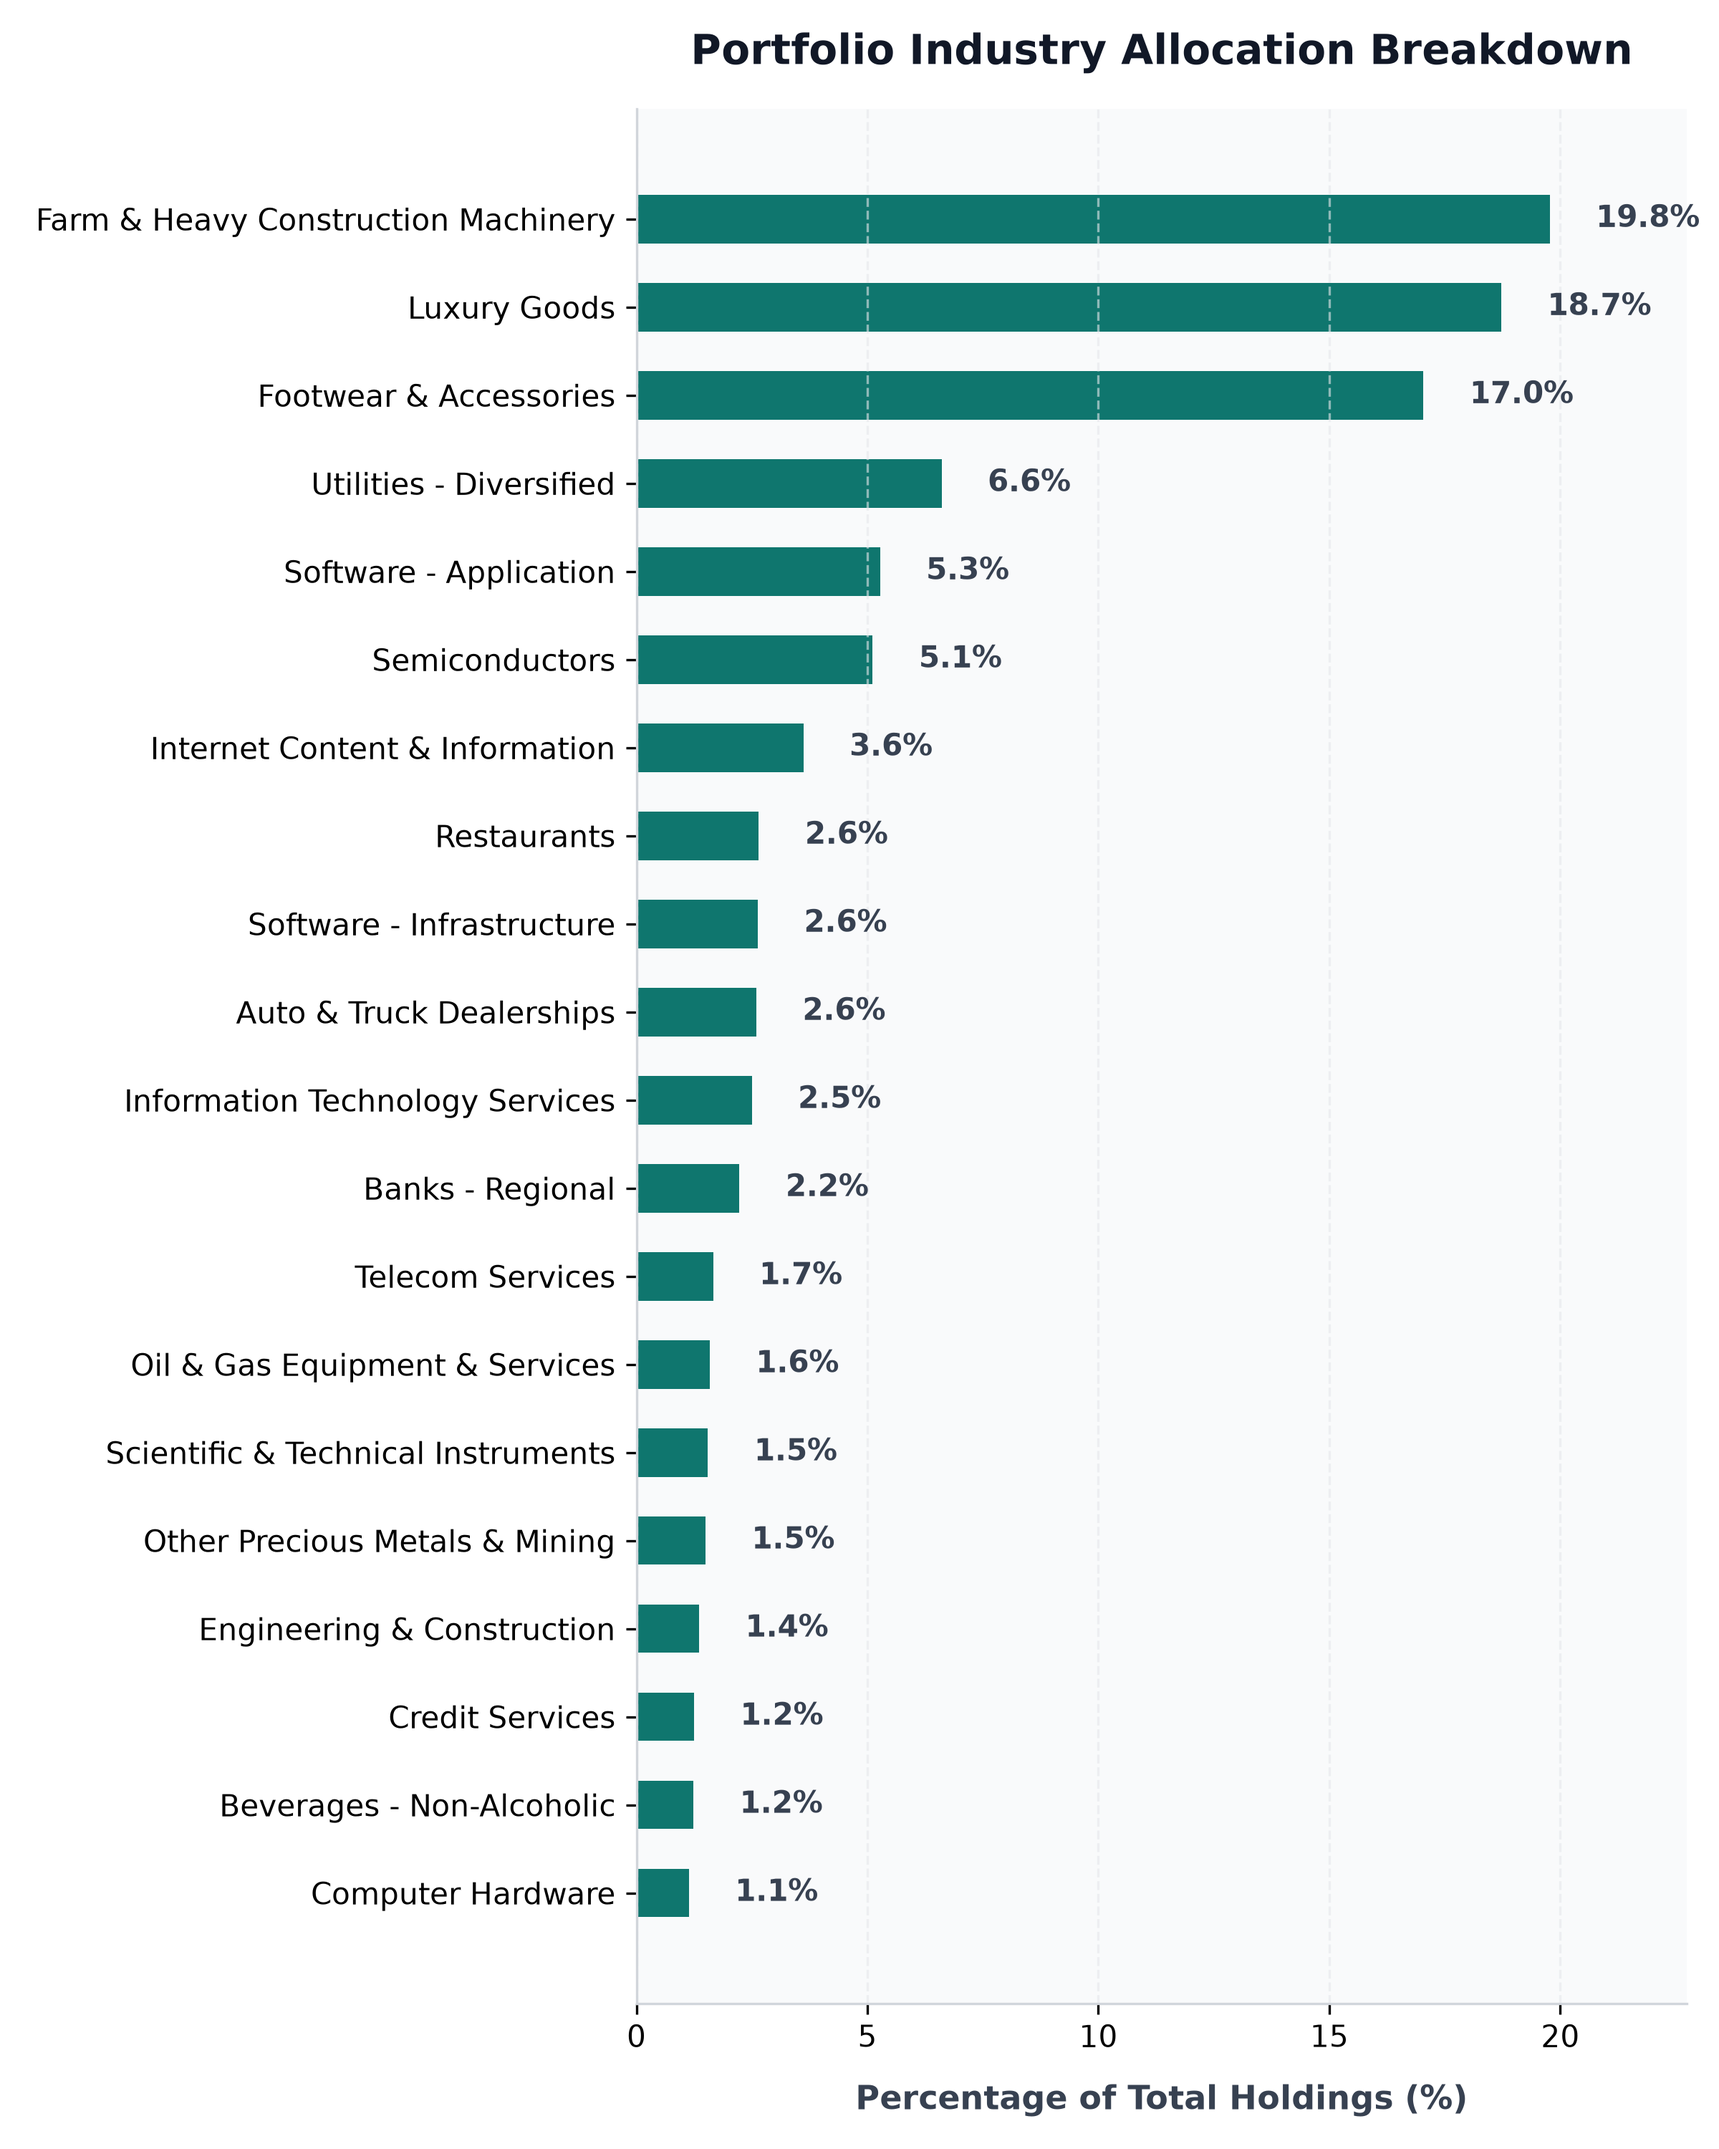
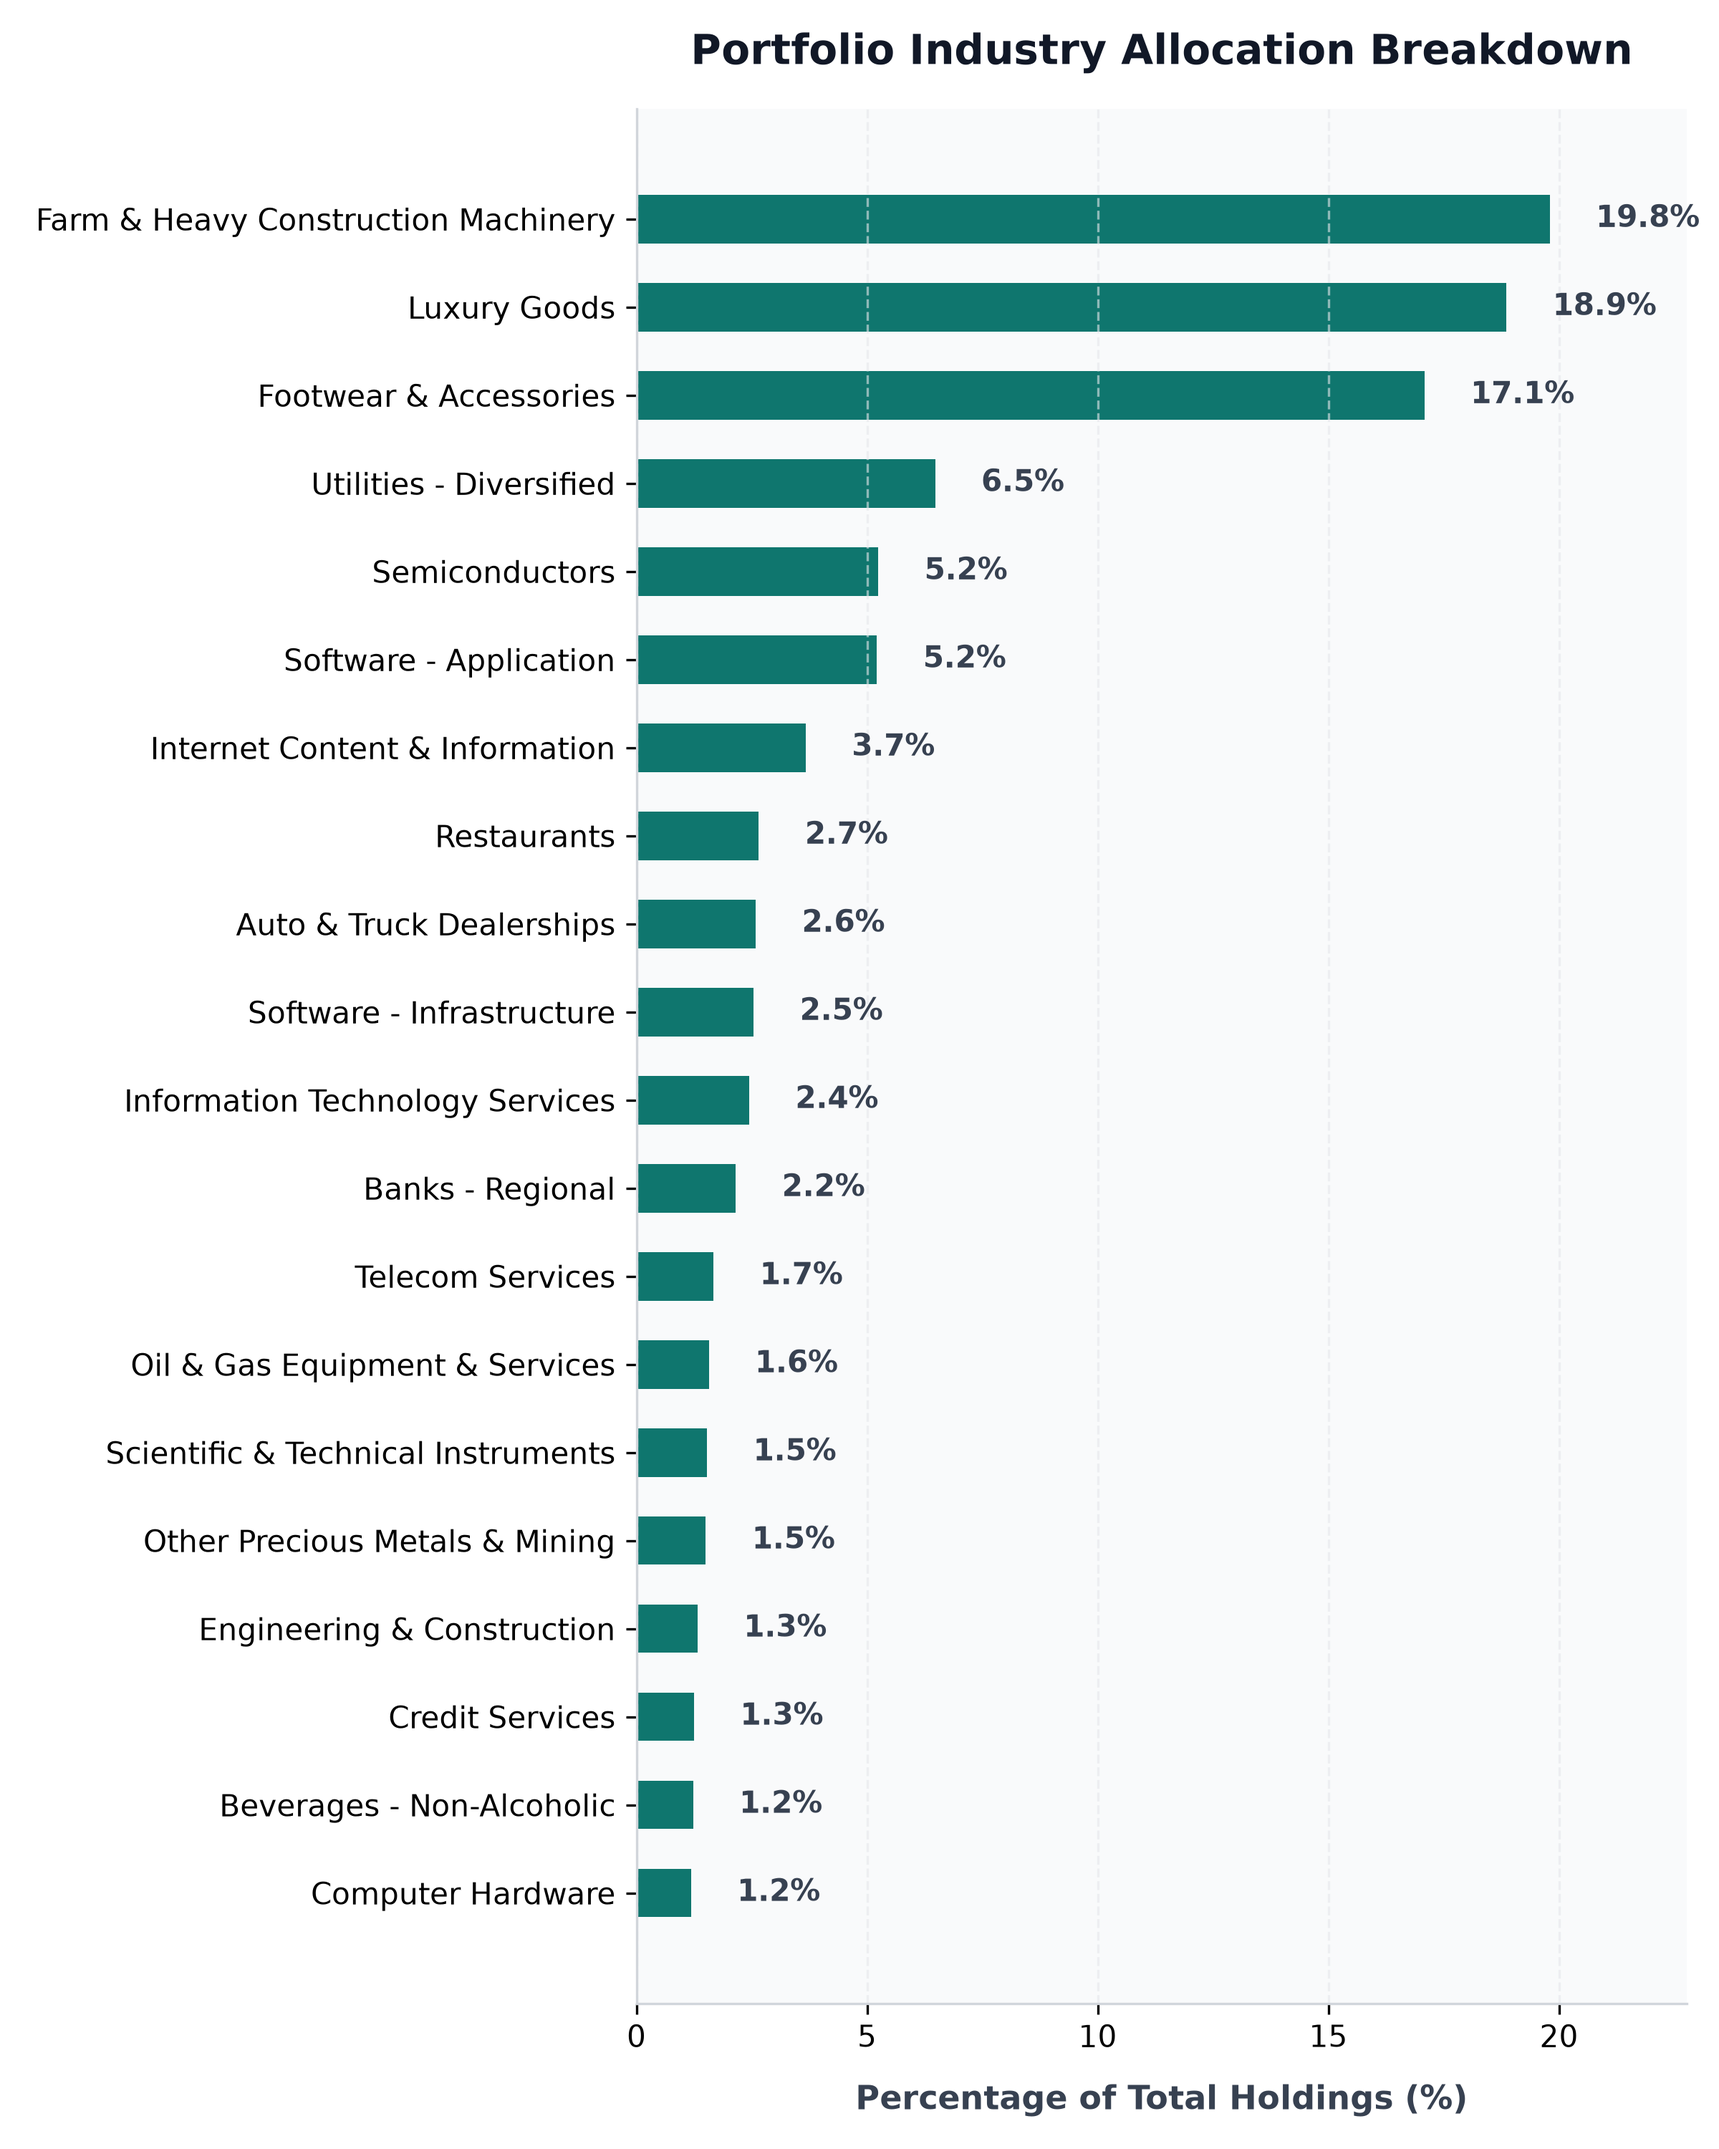
auto: daily portfolio status update - 2026-09-12 00:00:26

diff --git a/src/content/posts/portfolio-performance.md b/src/content/posts/portfolio-performance.md
@@ -1,6 +1,6 @@
 ---
 title: "BadOmen Algorithmic Portfolio Performance & PnL Report"
-pubDatetime: 2026-09-11T06:05:26.025820+08:00
+pubDatetime: 2026-09-12T00:00:26.176356+08:00
 description: "Live performance metrics, active holdings, and historic equity curve for the BadOmen automated paper trading portfolio."
 featured: true
 draft: false
@@ -16,11 +16,11 @@ Welcome to the live performance dashboard for **BadOmen**, our automated algorit
 ## 📊 Portfolio Summary
 | Performance Metric | Value | description |
 | :--- | :--- | :--- |
-| **Net Portfolio Equity** | **$95,976.32** | Total current liquidation value of cash and stock holdings |
-| **Total Unrealized P&L** | 🔴 **$-4,902.57** (-4.86%) | Total return of current open holdings |
+| **Net Portfolio Equity** | **$97,144.33** | Total current liquidation value of cash and stock holdings |
+| **Total Unrealized P&L** | 🔴 **$-3,735.07** (-3.70%) | Total return of current open holdings |
 | **Cash Balance** | $23,482.80 | Idle reserve currency available for limit orders |
-| **Buying Power** | $296,913.05 | Margin-backed buying power for entry allocations |
-| **Report Updated** | `2026-09-11 06:05:26 (SGT)` | Timestamp of daily execution and sync run |
+| **Buying Power** | $300,183.50 | Margin-backed buying power for entry allocations |
+| **Report Updated** | `2026-09-12 00:00:26 (SGT)` | Timestamp of daily execution and sync run |
 
 ## 📈 Net Equity Growth Curve
 The chart below illustrates the historical performance of the account starting from our baseline capital funding of $100,000.00.
@@ -35,36 +35,36 @@ The chart below illustrates the exposure of our currently held active positions 
 ## 💼 Current Position Holdings
 | Ticker | Industry | Shares Owned | Average Entry Cost | Current Price | Unrealized P&L | Return (%) |
 | :--- | :--- | :--- | :--- | :--- | :--- | :--- |
-| **AN** | Auto & Truck Dealerships | 5 | $188.51 | $207.22 | 🟢 +$93.56 | +9.93% |
-| **AVGO** | Semiconductors | 1 | $385.71 | $361.16 | 🔴 $-24.55 | -6.37% |
-| **BIRK** | Footwear & Accessories | 407 | $37.32 | $30.35 | 🔴 $-2,835.86 | -18.67% |
-| **BLBD** | Farm & Heavy Construction Machinery | 231 | $65.52 | $62.05 | 🔴 $-800.64 | -5.29% |
-| **BVN** | Other Precious Metals & Mining | 32 | $31.88 | $33.85 | 🟢 +$63.20 | +6.20% |
-| **CELH** | Beverages - Non-Alcoholic | 33 | $29.71 | $27.13 | 🔴 $-85.23 | -8.69% |
-| **CPRI** | Luxury Goods | 1042 | $14.55 | $13.03 | 🔴 $-1,589.89 | -10.48% |
-| **DUOL** | Software - Application | 14 | $131.04 | $145.14 | 🟢 +$197.34 | +10.76% |
-| **FIS** | Information Technology Services | 23 | $41.79 | $38.66 | 🔴 $-71.99 | -7.49% |
-| **GDDY** | Software - Infrastructure | 6 | $76.21 | $96.37 | 🟢 +$120.96 | +26.45% |
-| **GDS** | Information Technology Services | 30 | $32.77 | $30.71 | 🔴 $-61.80 | -6.29% |
-| **GGAL** | Banks - Regional | 17 | $56.04 | $44.72 | 🔴 $-192.43 | -20.20% |
-| **GOOGL** | Internet Content & Information | 3 | $319.44 | $331.80 | 🟢 +$37.08 | +3.87% |
-| **GPI** | Auto & Truck Dealerships | 3 | $316.15 | $281.84 | 🔴 $-102.93 | -10.85% |
-| **HUBS** | Software - Application | 8 | $221.18 | $223.70 | 🟢 +$20.15 | +1.14% |
-| **ITRI** | Scientific & Technical Instruments | 12 | $81.80 | $93.55 | 🟢 +$141.00 | +14.36% |
-| **KBR** | Engineering & Construction | 27 | $36.23 | $36.45 | 🟢 +$5.86 | +0.60% |
-| **META** | Internet Content & Information | 1 | $568.17 | $642.62 | 🟢 +$74.45 | +13.10% |
-| **NESR** | Oil & Gas Equipment & Services | 34 | $28.74 | $33.82 | 🟢 +$172.72 | +17.68% |
-| **NU** | Banks - Regional | 57 | $11.60 | $15.02 | 🟢 +$195.02 | +29.50% |
-| **ON** | Semiconductors | 10 | $90.45 | $70.10 | 🔴 $-203.55 | -22.50% |
-| **ORCL** | Software - Infrastructure | 5 | $181.95 | $159.68 | 🔴 $-111.34 | -12.24% |
-| **PATH** | Software - Infrastructure | 38 | $10.25 | $13.89 | 🟢 +$138.38 | +35.53% |
-| **PYPL** | Credit Services | 17 | $56.05 | $53.23 | 🔴 $-47.91 | -5.03% |
-| **QCOM** | Semiconductors | 15 | $193.68 | $176.35 | 🔴 $-260.02 | -8.95% |
-| **SMCI** | Computer Hardware | 22 | $29.25 | $37.38 | 🟢 +$178.81 | +27.79% |
-| **SRE** | Utilities - Diversified | 57 | $84.75 | $84.00 | 🔴 $-42.89 | -0.89% |
-| **T** | Telecom Services | 47 | $20.85 | $25.60 | 🟢 +$223.25 | +22.78% |
-| **WEN** | Restaurants | 257 | $8.02 | $7.47 | 🔴 $-142.52 | -6.91% |
-| **ZG** | Internet Content & Information | 31 | $31.35 | $31.65 | 🟢 +$9.20 | +0.95% |
+| **AN** | Auto & Truck Dealerships | 5 | $188.51 | $209.72 | 🟢 +$106.06 | +11.25% |
+| **AVGO** | Semiconductors | 1 | $385.71 | $365.07 | 🔴 $-20.64 | -5.35% |
+| **BIRK** | Footwear & Accessories | 407 | $37.32 | $30.92 | 🔴 $-2,603.87 | -17.14% |
+| **BLBD** | Farm & Heavy Construction Machinery | 231 | $65.52 | $63.14 | 🔴 $-548.85 | -3.63% |
+| **BVN** | Other Precious Metals & Mining | 32 | $31.88 | $34.63 | 🟢 +$88.32 | +8.66% |
+| **CELH** | Beverages - Non-Alcoholic | 33 | $29.71 | $27.45 | 🔴 $-74.67 | -7.61% |
+| **CPRI** | Luxury Goods | 1042 | $14.55 | $13.34 | 🔴 $-1,267.91 | -8.36% |
+| **DUOL** | Software - Application | 14 | $131.04 | $145.60 | 🟢 +$203.85 | +11.11% |
+| **FIS** | Information Technology Services | 23 | $41.79 | $37.95 | 🔴 $-88.32 | -9.19% |
+| **GDDY** | Software - Infrastructure | 6 | $76.21 | $97.22 | 🟢 +$126.06 | +27.57% |
+| **GDS** | Information Technology Services | 30 | $32.77 | $30.93 | 🔴 $-55.20 | -5.62% |
+| **GGAL** | Banks - Regional | 17 | $56.04 | $44.21 | 🔴 $-201.10 | -21.11% |
+| **GOOGL** | Internet Content & Information | 3 | $319.44 | $341.48 | 🟢 +$66.12 | +6.90% |
+| **GPI** | Auto & Truck Dealerships | 3 | $316.15 | $285.44 | 🔴 $-92.13 | -9.71% |
+| **HUBS** | Software - Application | 8 | $221.18 | $225.30 | 🟢 +$32.95 | +1.86% |
+| **ITRI** | Scientific & Technical Instruments | 12 | $81.80 | $94.05 | 🟢 +$146.94 | +14.97% |
+| **KBR** | Engineering & Construction | 27 | $36.23 | $36.16 | 🔴 $-1.84 | -0.19% |
+| **META** | Internet Content & Information | 1 | $568.17 | $652.22 | 🟢 +$84.05 | +14.79% |
+| **NESR** | Oil & Gas Equipment & Services | 34 | $28.74 | $33.98 | 🟢 +$178.16 | +18.23% |
+| **NU** | Banks - Regional | 57 | $11.60 | $14.65 | 🟢 +$174.22 | +26.35% |
+| **ON** | Semiconductors | 10 | $90.45 | $73.91 | 🔴 $-165.45 | -18.29% |
+| **ORCL** | Software - Infrastructure | 5 | $181.95 | $153.16 | 🔴 $-143.95 | -15.82% |
+| **PATH** | Software - Infrastructure | 38 | $10.25 | $13.78 | 🟢 +$133.95 | +34.39% |
+| **PYPL** | Credit Services | 17 | $56.05 | $54.17 | 🔴 $-31.96 | -3.35% |
+| **QCOM** | Semiconductors | 15 | $193.68 | $183.88 | 🔴 $-147.07 | -5.06% |
+| **SMCI** | Computer Hardware | 22 | $29.25 | $39.63 | 🟢 +$228.47 | +35.50% |
+| **SRE** | Utilities - Diversified | 57 | $84.75 | $83.68 | 🔴 $-61.13 | -1.26% |
+| **T** | Telecom Services | 47 | $20.85 | $26.24 | 🟢 +$253.33 | +25.85% |
+| **WEN** | Restaurants | 257 | $8.02 | $7.61 | 🔴 $-107.61 | -5.22% |
+| **ZG** | Internet Content & Information | 31 | $31.35 | $33.10 | 🟢 +$54.15 | +5.57% |
 
 ## 🔴 Recent Realized Trades
 | Ticker | Shares Sold | Entry Price | Exit Price | Strategy Trigger | Realized Return | Exit Date |
